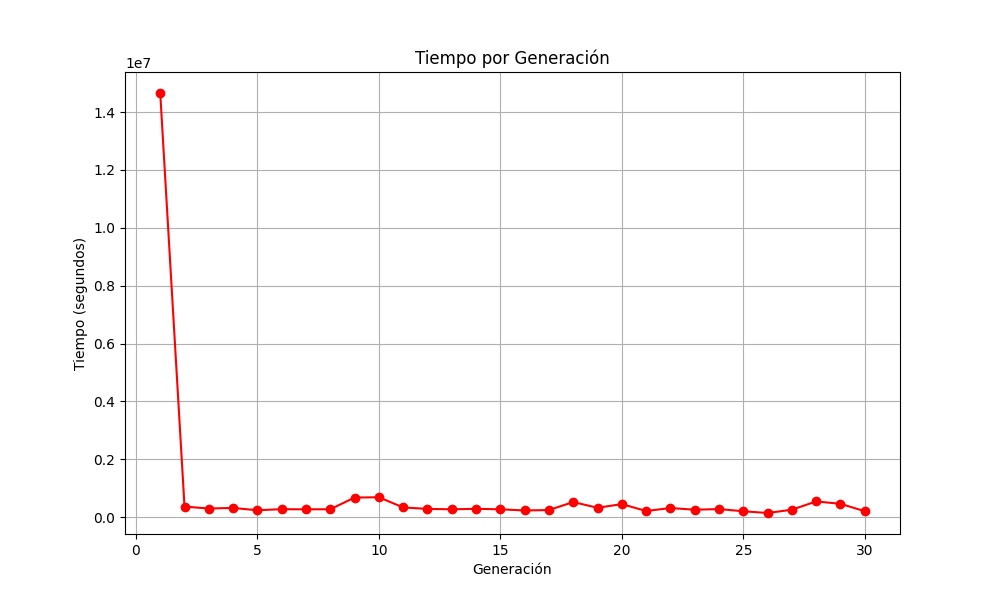
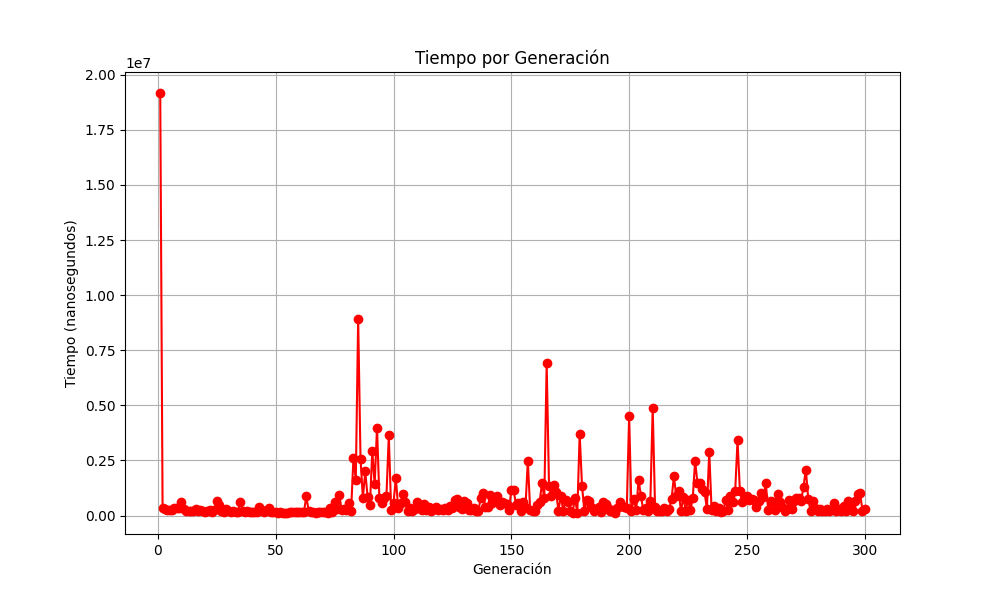
Jenetics 300 sim

diff --git a/src/MainJenetics.java b/src/MainJenetics.java
@@ -6,6 +6,7 @@ import java.io.IOException;
 
 public class MainJenetics {
     private static final FuncionEvaluacionJenetics FUNCION_EVALUACION = new FuncionEvaluacionJenetics();
+    private static Phenotype<IntegerGene, Double> mejorCromosoma; // Variable para almacenar el mejor cromosoma
 
     public static void main(String[] args) { // Nombre del método corregido a 'main'
 
@@ -29,9 +30,9 @@ public class MainJenetics {
             csvWriter.append("Generacion,Aptitud Mejor Individuo,DisPos1,DisPos2,DisPos3,DisPos4,DisPos5,DisKick1,DisKick2,DisKick3,DisKick4,DisKick5,DisTeam1,DisTeam2,DisTeam3,DisTeam4,DisTeam5,Tiempo por generacion,Tiempo total,Uso CPU\n");
             EvolutionStatistics<Double, ?> statistics = EvolutionStatistics.ofNumber();
 
-            engine.stream()
+            mejorCromosoma = engine.stream()
                 
-                .limit(30)
+                .limit(10)
                 .peek(statistics)
                 .peek(result -> {
                     long startTime = System.nanoTime();
@@ -53,6 +54,10 @@ public class MainJenetics {
                             csvWriter.append("," + chromosome.get(i).allele());
                         }
 
+                        System.out.println("Generación " + generation + ": " + result.bestFitness());
+                        // Cromosoma
+                        System.out.println("Cromosoma: " + chromosome);
+
                         long endTime = System.nanoTime();
                         long duration = (endTime - startTime); 
                         sumatime[0] += duration;
@@ -69,6 +74,12 @@ public class MainJenetics {
                         csvWriter.append(",").append(String.format("%.2f", averageCpuLoad * 100)); // Uso de CPU como porcentaje
                         csvWriter.append("\n");
 
+                        // Almacena el chromosoma en una variable global
+                        // para poder acceder a él desde la interfaz gráfica
+                        // de la aplicación
+                        System.out.println("Cromosoma: " + chromosome);
+                        System.out.println(result);
+
                     } catch (IOException e) {
                         e.printStackTrace();
                     } catch (InterruptedException e) {
@@ -78,6 +89,8 @@ public class MainJenetics {
                 .collect(EvolutionResult.toBestPhenotype());
 
             System.out.println(statistics);
+            System.out.println("Mejor cromosoma: " + mejorCromosoma.genotype().chromosome());
+            
         } catch (IOException e) {
             e.printStackTrace();
         }

diff --git a/src/Main.java b/src/Main.java
@@ -102,7 +102,7 @@ public class Main {
 
             // Imprime el mejor individuo encontrado después de todas las generaciones
             IChromosome mejor = poblacion.getFittestChromosome();
-            // System.out.println("\n\nMEJOR INDIVIDUO:");
+            System.out.println("\n\nMEJOR INDIVIDUO:");
             FuncionEvaluacion.println(mejor); //muestra su conformación
             System.out.println("\tFitness:" + mejor.getFitnessValue()); //muestra su evaluación
 

diff --git a/analisis/analisis_JENETICS.py b/analisis/analisis_JENETICS.py
@@ -2,7 +2,7 @@ import pandas as pd
 import matplotlib.pyplot as plt
 
 # Carga los datos desde el archivo CSV
-datos = pd.read_csv('../ResultadosAlgoritmoGenetico.csv')
+datos = pd.read_csv('../ResultadosAlgoritmoGeneticoa.csv')
 
 # Graficar la aptitud del mejor individuo por generación
 plt.figure(figsize=(10, 6))
